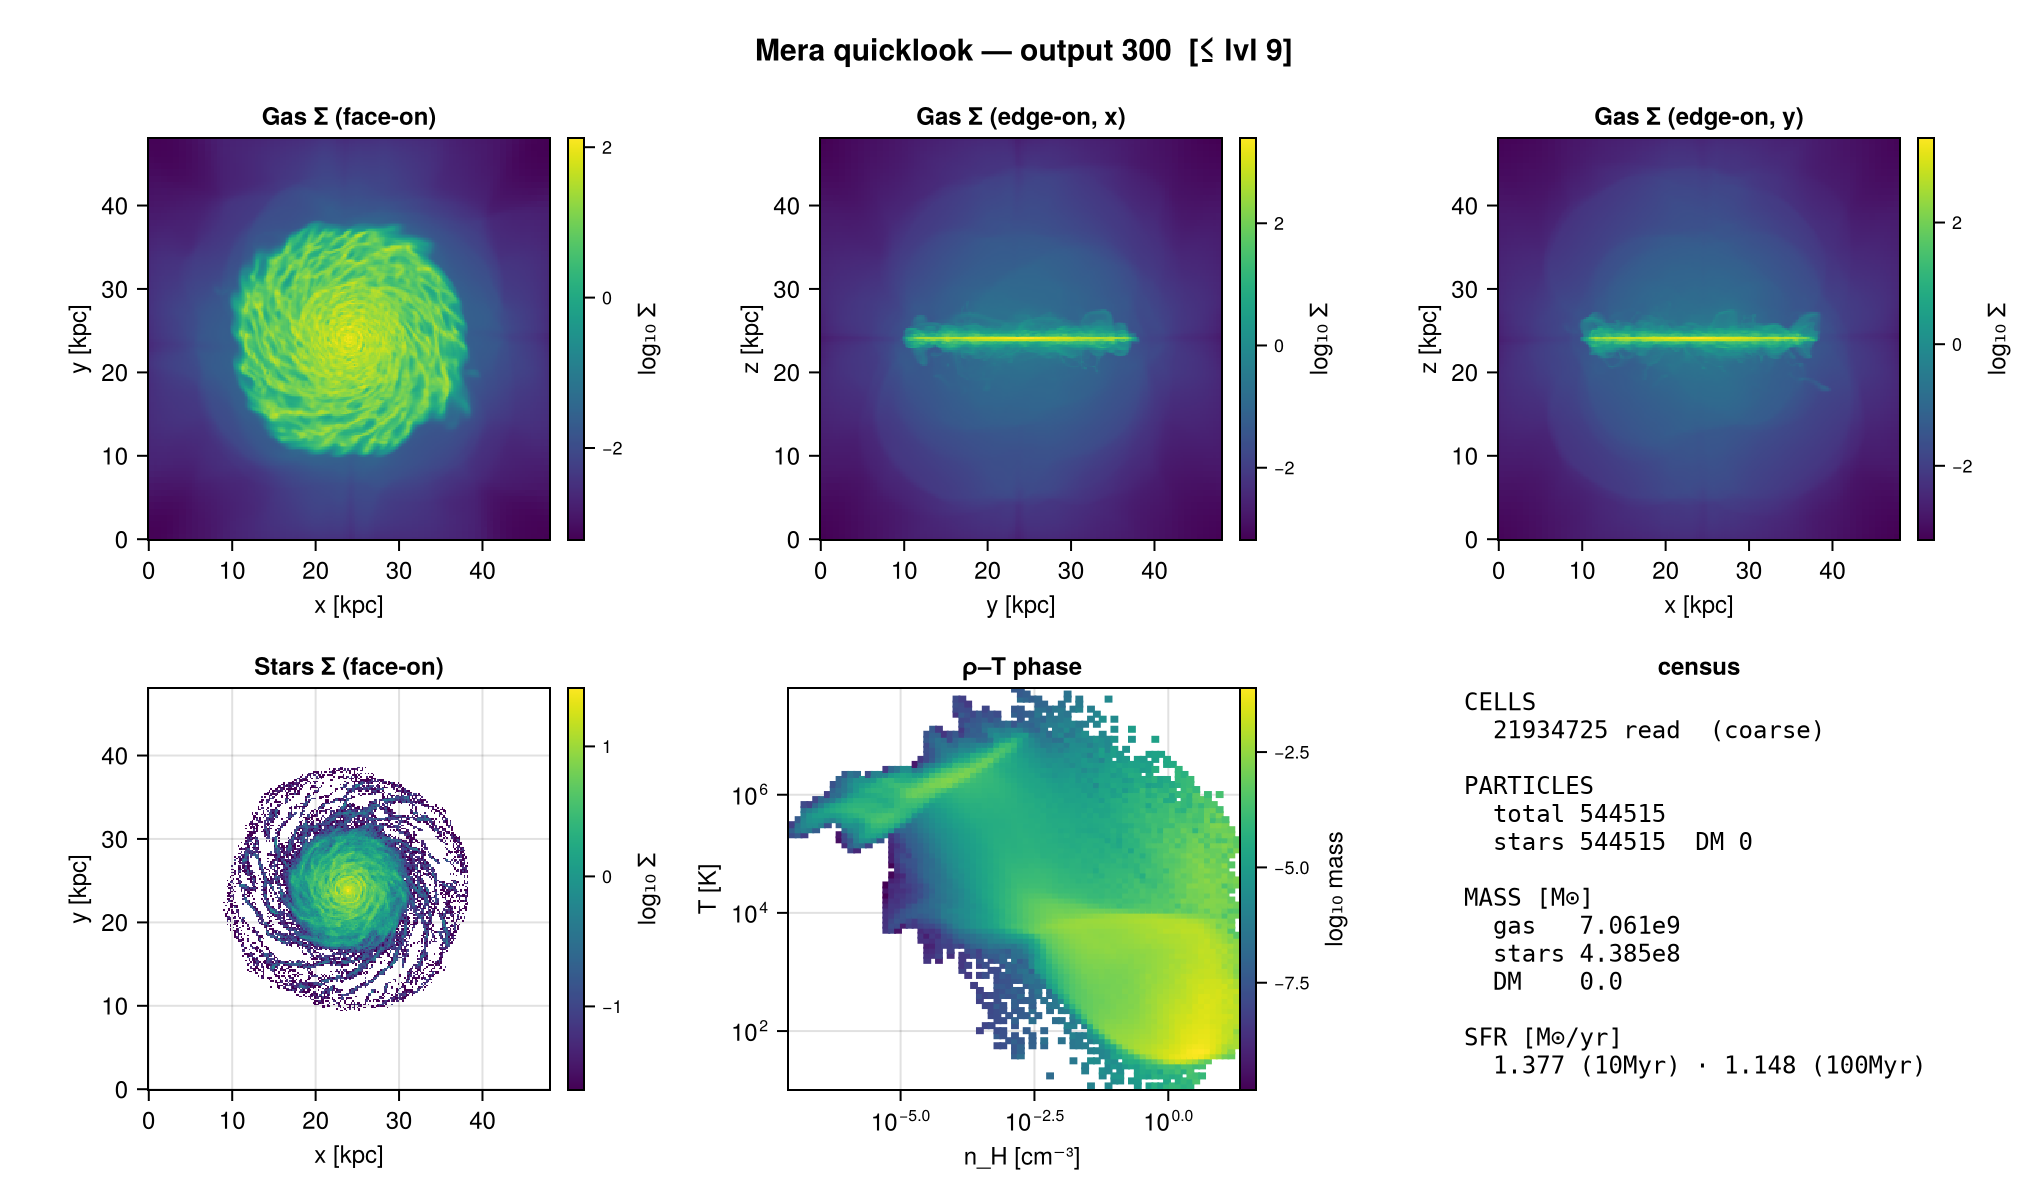
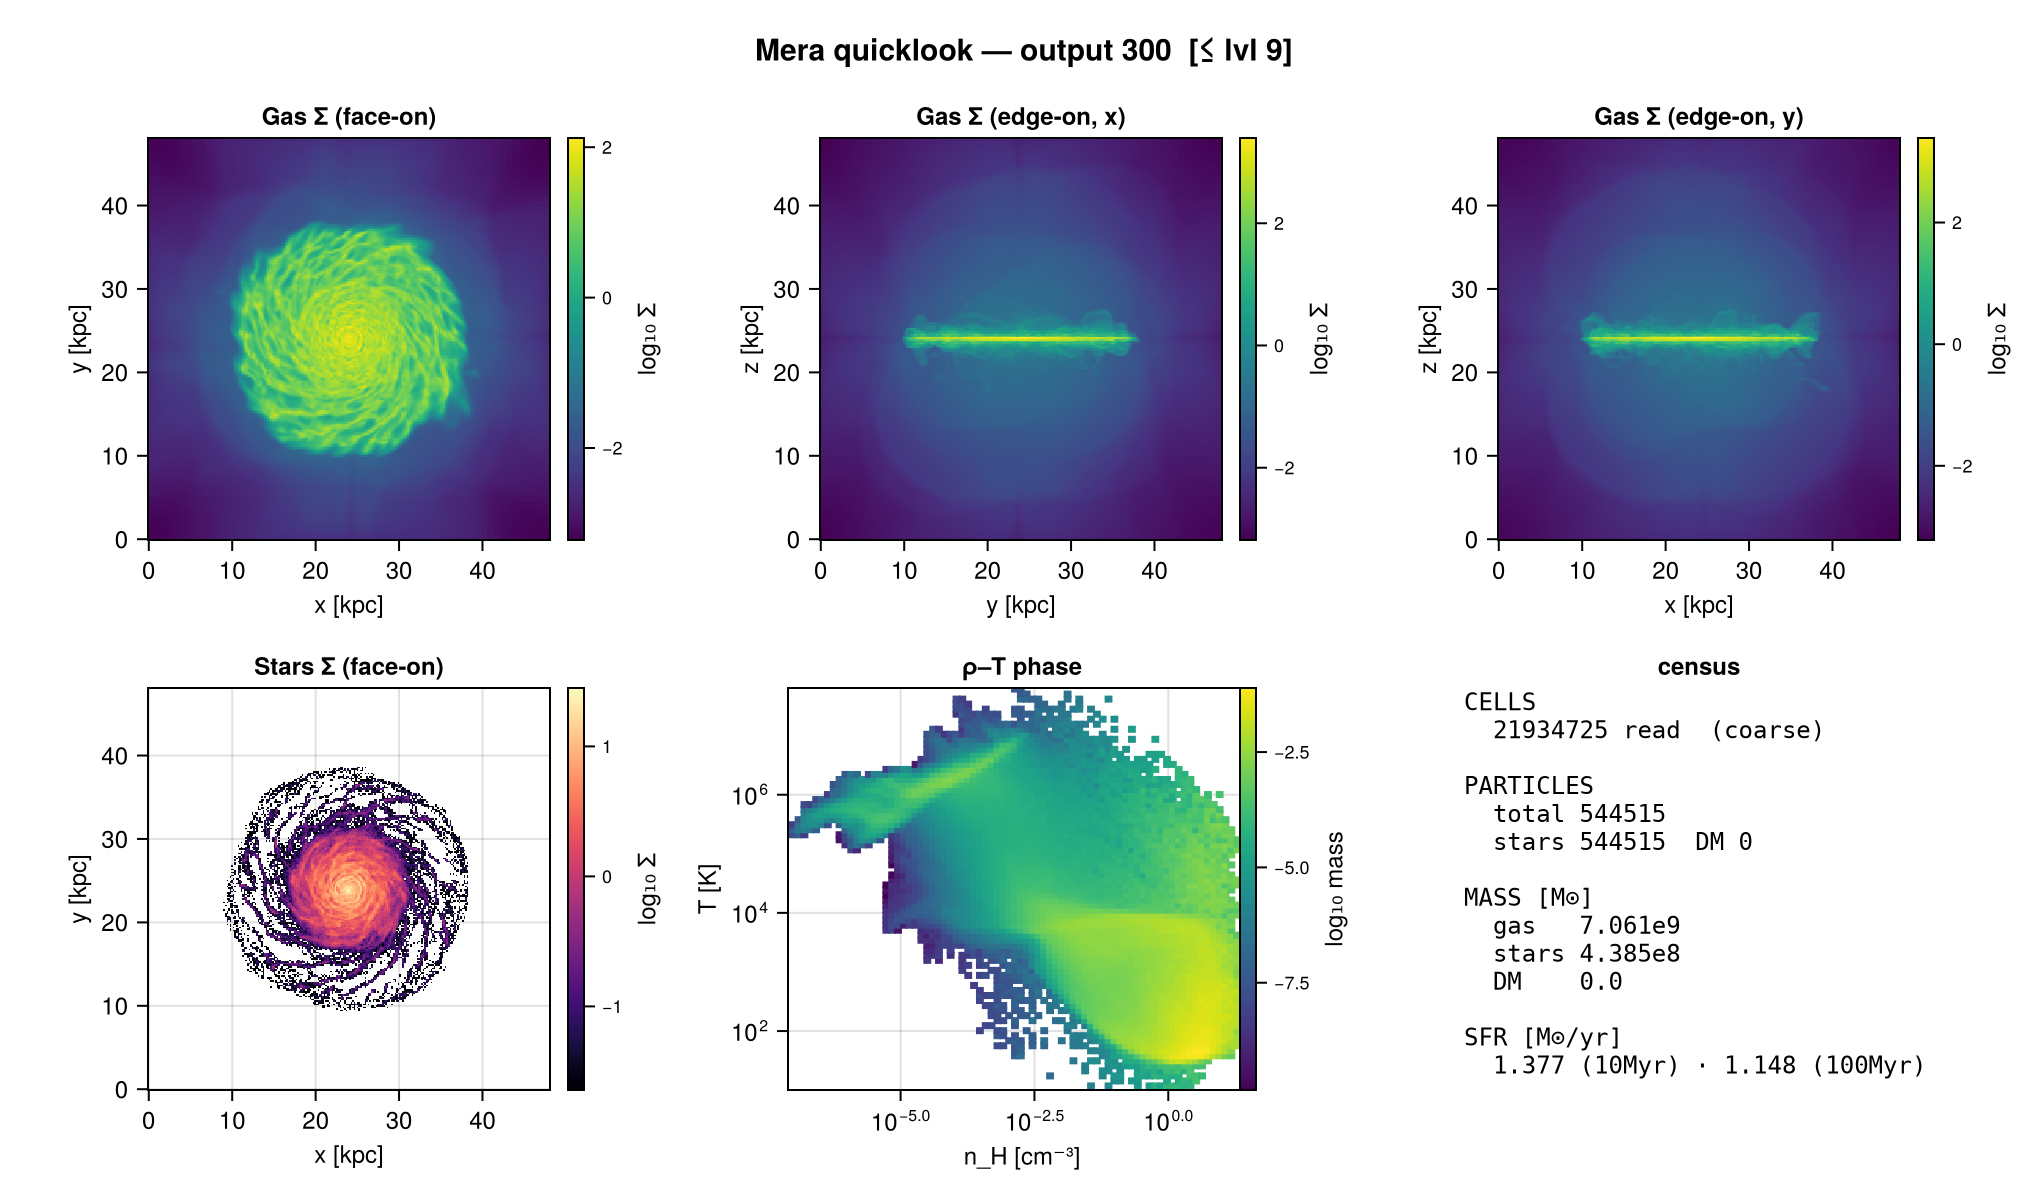
viz: meaningful per-component colormaps in quicklook dashboard — stars=magma, dark matter=cividis (CVD-optimised), gas/phase=viridis (all perceptually-uniform & colorblind-safe); overridable via colormap=; regenerate dashboards + captions

Changed region(s): [[0.0926, 0.6475, 0.2471, 0.8633], [0.2779, 0.5858, 0.3088, 0.8942]]

diff --git a/docs/src/report.md b/docs/src/report.md
@@ -42,14 +42,16 @@ q = quicklook(80; path="/sim/cosmo")   # the cosmological zoom shown below
 ![The quicklook dashboard for a **cosmological zoom**: gas surface density along z (face-on) and x, y
 (edge-on); face-on stellar and dark-matter surface density; the ρ–T phase diagram; and a text census of
 cell/particle counts, masses and SFR. The grid grows with the components present (here gas + stars +
-dark matter). Colormaps are the colorblind-safe, perceptually-uniform viridis.](assets/features/quicklook_dashboard.png)
+dark matter). Each component uses a meaningful perceptually-uniform, colorblind-safe colormap — gas
+density `viridis`, stars `magma` (warm), dark matter `cividis` (the CVD-optimised cool map), ρ–T phase
+`viridis`.](assets/features/quicklook_dashboard.png)
 
 The same call on an **isolated disk galaxy** (gas + stars, no dark matter) — face-on plus the two
 edge-on views show the disk and its thickness, and the dark-matter panel is simply omitted:
 
-![The quicklook dashboard for an isolated disk galaxy: gas Σ face-on and edge-on (×2), the face-on
-stellar disk, the ρ–T phase diagram, and the census. With no dark-matter particles, no DM panel is
-shown.](assets/features/quicklook_isolated.png)
+![The quicklook dashboard for an isolated disk galaxy: gas Σ face-on and edge-on (×2) in `viridis`, the
+face-on stellar disk in `magma`, the ρ–T phase diagram, and the census. With no dark-matter particles,
+no DM panel is shown.](assets/features/quicklook_isolated.png)
 
 ### What you get
 
